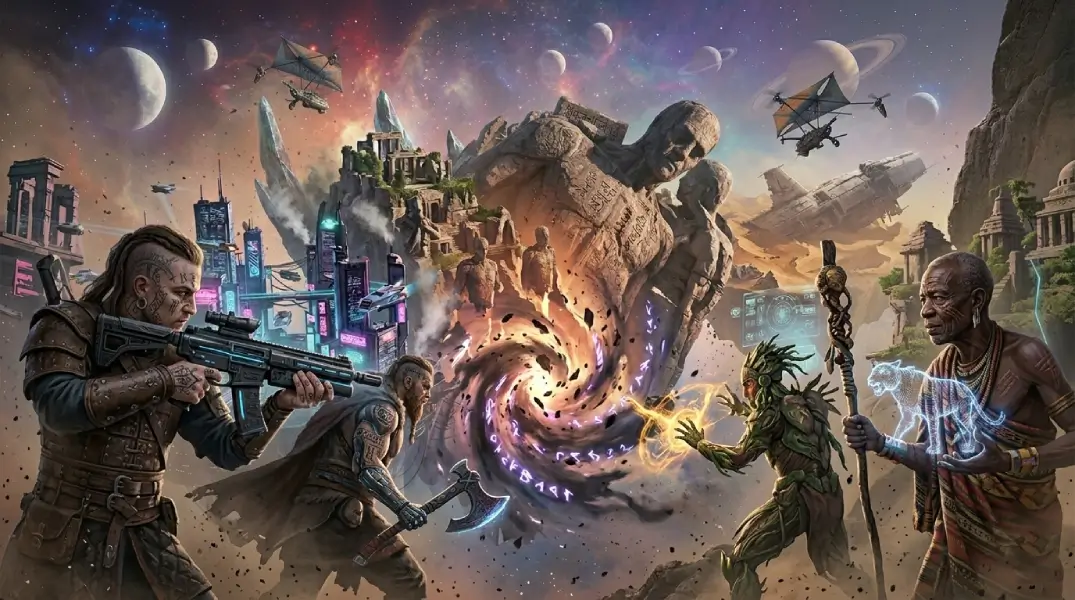
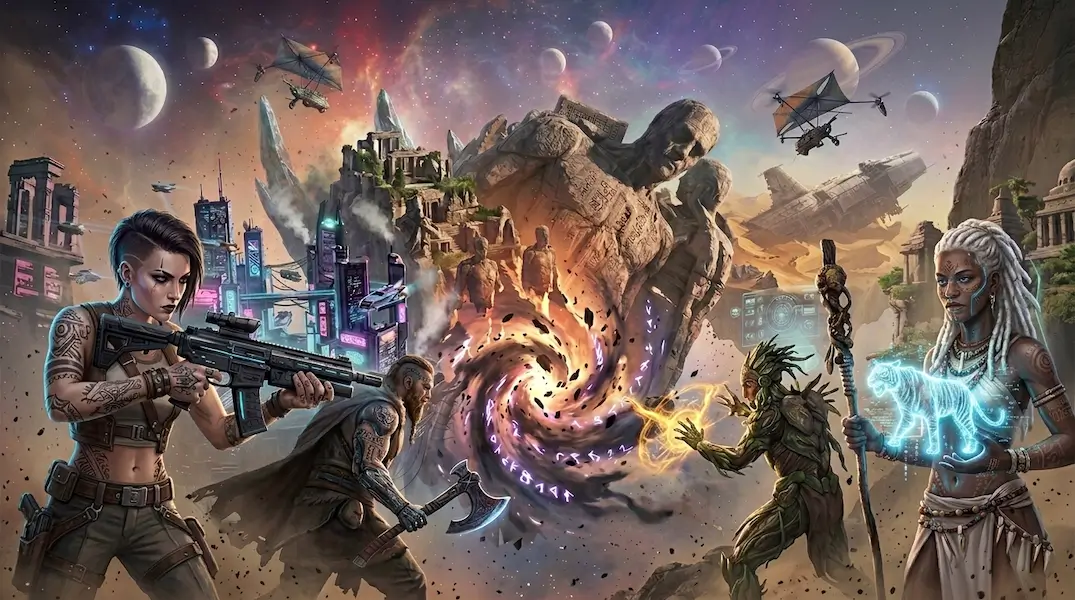
fix genre and add new poster for saga 3

diff --git a/public/text-data/gamedev/CossackSaga/Part3/Part3EN.md b/public/text-data/gamedev/CossackSaga/Part3/Part3EN.md
@@ -1,4 +1,4 @@
-#### Dark Fantasy / Action RPG
+#### Cyber Fantasy / Action RPG
 
 # Shadows of the Cossacks: Quantum Leap
 

diff --git a/public/text-data/gamedev/CossackSaga/Part3/Part3RU.md b/public/text-data/gamedev/CossackSaga/Part3/Part3RU.md
@@ -1,4 +1,4 @@
-#### Dark Fantasy / Action RPG
+#### Cyber Fantasy / Action RPG
 
 # Тени Казаков: Квантовый Скачок
 

diff --git a/public/text-data/gamedev/CossackSaga/Part3/Part3UA.md b/public/text-data/gamedev/CossackSaga/Part3/Part3UA.md
@@ -1,4 +1,4 @@
-#### Dark Fantasy / Action RPG
+#### Cyber Fantasy / Action RPG
 
 # Тіні Козаків: Квантовий Стрибок
 

diff --git a/public/text-data/gamedev/CossackSaga/Part3/PreviewPart3EN.md b/public/text-data/gamedev/CossackSaga/Part3/PreviewPart3EN.md
@@ -1,4 +1,4 @@
-#### Dark Fantasy / Action RPG
+#### Cyber Fantasy / Action RPG
 
 # Part III: Quantum Leap
 

diff --git a/public/text-data/gamedev/CossackSaga/Part3/PreviewPart3RU.md b/public/text-data/gamedev/CossackSaga/Part3/PreviewPart3RU.md
@@ -1,4 +1,4 @@
-#### Dark Fantasy / Action RPG
+#### Cyber Fantasy / Action RPG
 
 # Часть III: Квантовый Скачок
 

diff --git a/public/text-data/gamedev/CossackSaga/Part3/PreviewPart3UA.md b/public/text-data/gamedev/CossackSaga/Part3/PreviewPart3UA.md
@@ -1,4 +1,4 @@
-#### Dark Fantasy / Action RPG
+#### Cyber Fantasy / Action RPG
 
 # Частина ІII: Квантовий Стрибок
 